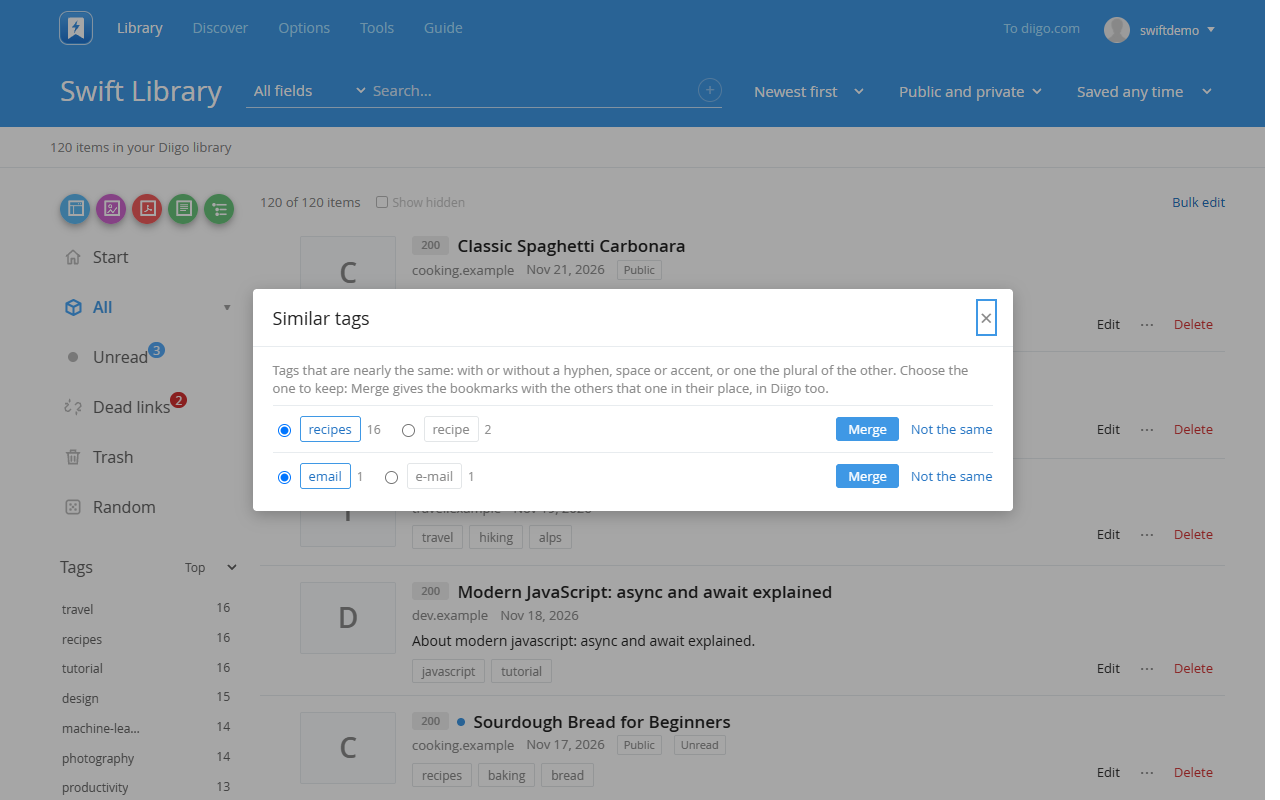
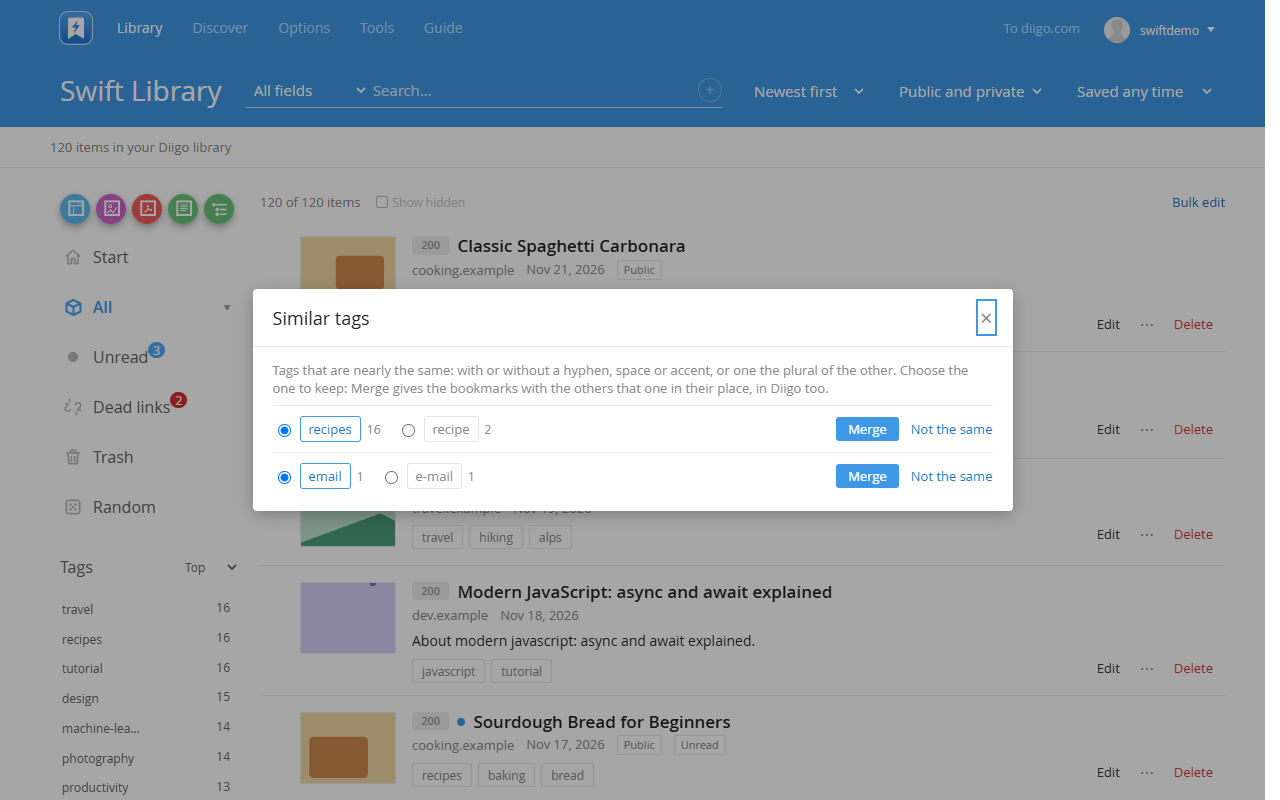
Screenshots of the add-on stores for 2026.11.23, and webRequest in the store listing
- 3-tag-cloud without Manage tags, 4-library and 6-archive with the small
  picture at each bookmark: the made-up pages have a preview image now
  (scripts/screenshots.mjs: thumbSvg). The Guide pictures made again too.
- Store listing: the justification of webRequest, and the host permission
  also for the preview images and screenshots; the caption of 4-library.

diff --git a/docs/store-listing.md b/docs/store-listing.md
@@ -46,7 +46,7 @@ leaves the store ones as they are.
 | 1-form.png | The bookmark form on the page: your tags that appear in the title are suggested; one click adds them. |
 | 2-saved.png | A page that is already in your library: the form shows what you saved, and when. |
 | 3-tag-cloud.png | Your 100 most used tags, the more used the larger. |
-| 4-library.png | The Swift Library: your whole Diigo library at once, with the status of each link (200, 404). |
+| 4-library.png | The Swift Library: your whole Diigo library at once, with a picture of each page and the status of its link (200, 404). |
 | 5-discover.png | Swift Discover: the Hot Bookmarks of the Diigo community, without what you have, in the order For you. |
 | 6-archive.png | Click the status code of a dead link to look it up in the Wayback Machine or on archive.is. |
 
@@ -183,7 +183,8 @@ collection. AMO asks for a privacy policy when an add-on sends data; use the tex
 | `scripting` | Puts the bookmark form on the page when you click the toolbar button, press the shortcut or use the right-click menu. |
 | `storage` | Keeps the options, the tags of your last bookmark, the bookmarks still to sync, and the Hot Bookmarks of Swift Discover with those you marked Not interested. |
 | `tabs` | Reads the URL and title of the tab, for the bookmark and to show on the toolbar button whether the page is already saved. |
-| Host permission `<all_urls>` | The form can be put on any page you want to bookmark; the add-on asks diigo.com whether a page is saved; it reads the title of a linked page for "Save link to Diigo"; and it checks whether the links in your library still work. |
+| `webRequest` | Notices the requests diigo.com itself makes when you save, edit or delete something there, so the add-on's copy of your library stays up to date and what you delete goes to its trash. While a screenshot is taken, it watches the requests of that one tab, to wait until the page has fully loaded. It only observes: it never blocks or changes a request. |
+| Host permission `<all_urls>` | The form can be put on any page you want to bookmark; the add-on asks diigo.com whether a page is saved; it reads the title of a linked page for "Save link to Diigo"; it checks whether the links in your library still work, and reads the preview image of their pages for the small picture at each bookmark; and it takes a screenshot of a page when you ask for one. |
 
 **Remote code**: No, the add-on uses no remote code.
 
